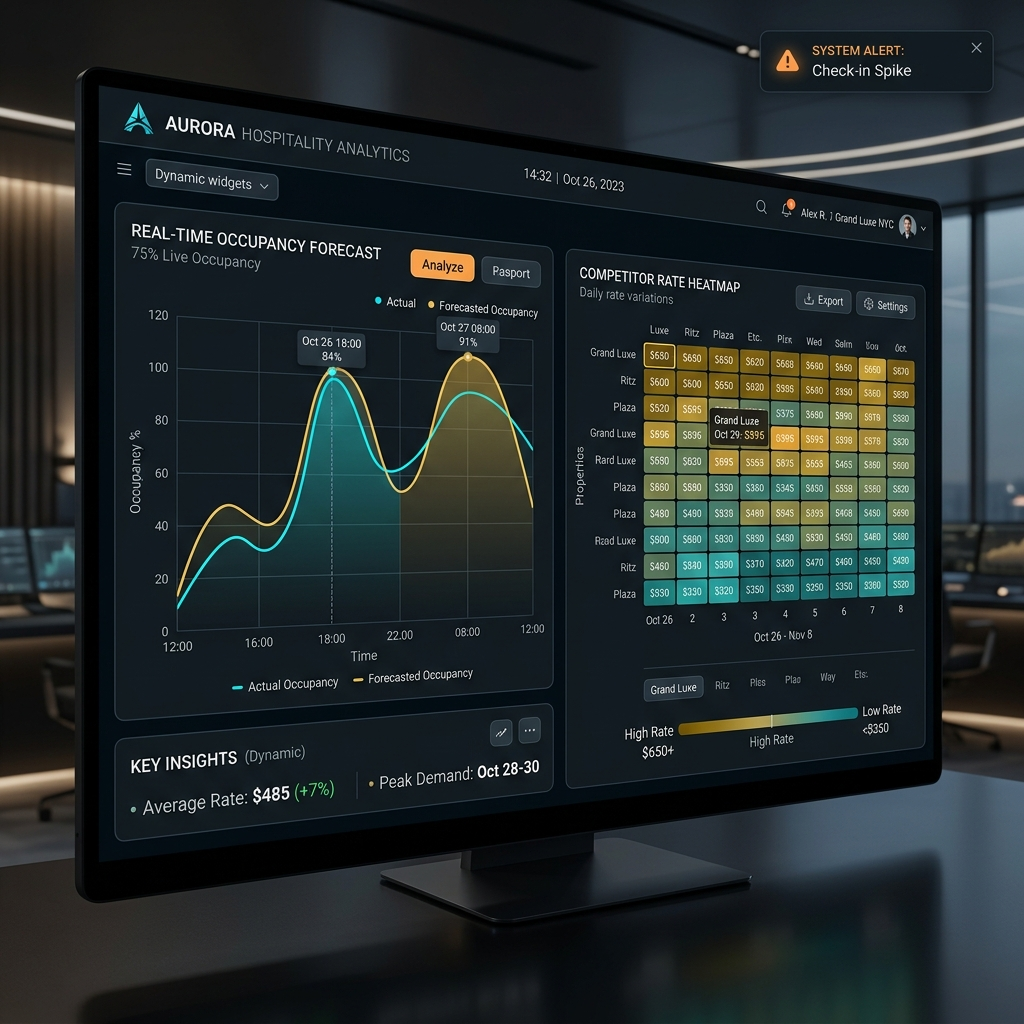
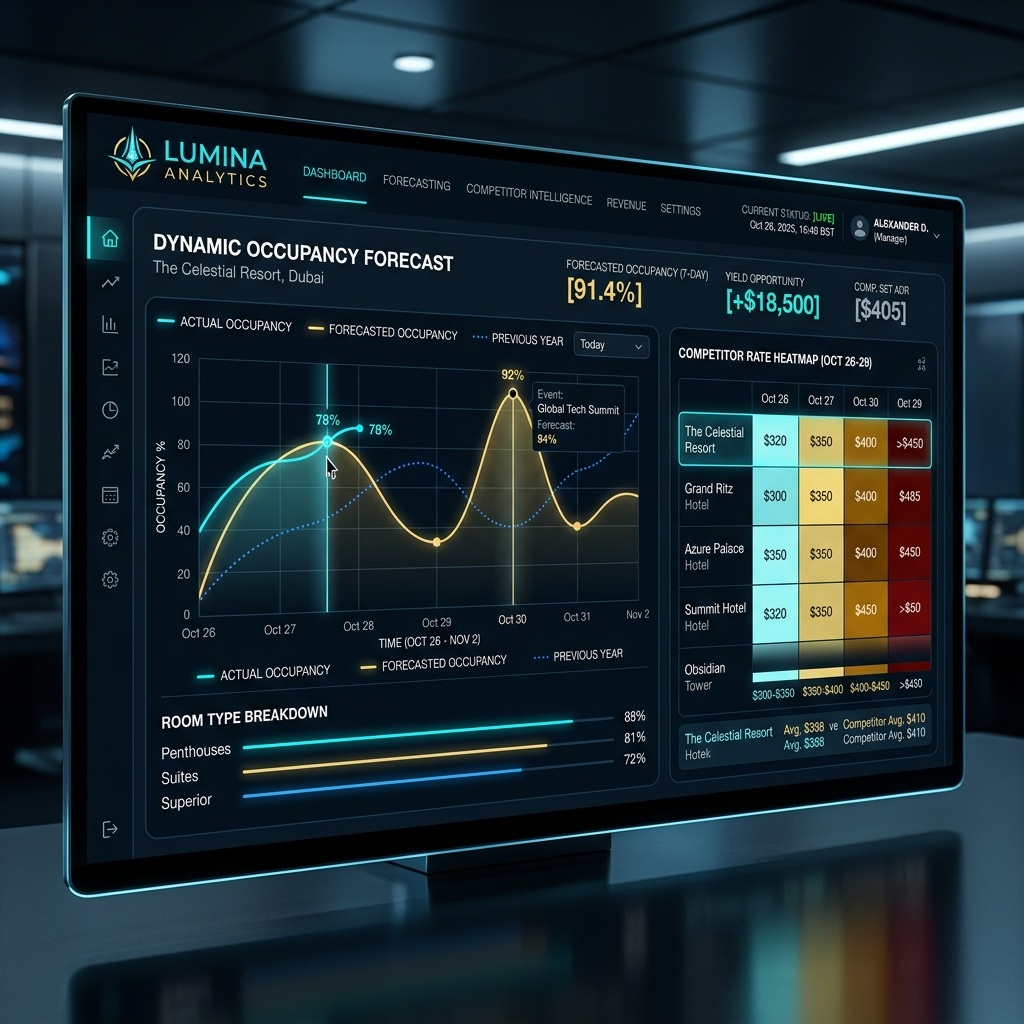
feat: add 3 new project cards to carousel in index.html matching original codebase structure

diff --git a/app/templates/index.html b/app/templates/index.html
@@ -904,6 +904,54 @@
                             </div>
                         </div>
                     </div>
+                        
+                        <!-- Project 4 -->
+                        <div class="project-card glass-panel">
+                            <div class="project-image" style="background-image: url('/static/img/case_supply.png'); background-size: cover; background-position: top center;">
+                            </div>
+                            <div class="project-content">
+                                <h3>IoT Fleet & Logistics AI</h3>
+                                <p class="project-overview"><strong>The Challenge:</strong> A regional fleet operator with 200+ trucks lost $45,000 monthly due to fuel waste, unpredictable traffic jams, and manual dispatch delays.<br><br><strong>The Solution:</strong> Engineered a real-time IoT Telemetry Pipeline and Dynamic AI Route Optimization Engine that recalculates optimal transit paths dynamically based on live traffic data.</p>
+                                <div class="project-tags">
+                                    <span class="tag">IoT Telemetry</span>
+                                    <span class="tag">Python</span>
+                                    <span class="tag">Kafka</span>
+                                    <span class="tag">TensorFlow</span>
+                                </div>
+                            </div>
+                        </div>
+
+                        <!-- Project 5 -->
+                        <div class="project-card glass-panel">
+                            <div class="project-image" style="background-image: url('/static/img/case_hotel.png'); background-size: cover; background-position: top center;">
+                            </div>
+                            <div class="project-content">
+                                <h3>Dynamic Pricing ML Engine</h3>
+                                <p class="project-overview"><strong>The Challenge:</strong> A premium resort group was leaving revenue on the table due to static seasonal pricing that failed to adjust to sudden local event surges and market demand.<br><br><strong>The Solution:</strong> Built a Real-Time Dynamic ML Pricing Engine that monitors competitor rates, flight bookings, and local demand to auto-adjust room rates, boosting RevPAR by +28%.</p>
+                                <div class="project-tags">
+                                    <span class="tag">Scikit-Learn</span>
+                                    <span class="tag">FastAPI</span>
+                                    <span class="tag">PostgreSQL</span>
+                                    <span class="tag">Docker</span>
+                                </div>
+                            </div>
+                        </div>
+
+                        <!-- Project 6 -->
+                        <div class="project-card glass-panel">
+                            <div class="project-image" style="background-image: url('/static/img/case_legal.png'); background-size: cover; background-position: top center;">
+                            </div>
+                            <div class="project-content">
+                                <h3>Enterprise RAG Contract Audit</h3>
+                                <p class="project-overview"><strong>The Challenge:</strong> Senior attorneys at a commercial practice spent 20+ hours weekly manually auditing 100-page contracts for compliance risks and hidden liability clauses.<br><br><strong>The Solution:</strong> Engineered a secure Enterprise RAG Document Audit System that analyzes contract files against legal compliance standards in under 10 seconds with 10x audit speed.</p>
+                                <div class="project-tags">
+                                    <span class="tag">LlamaIndex</span>
+                                    <span class="tag">VectorDB</span>
+                                    <span class="tag">FastAPI</span>
+                                    <span class="tag">React</span>
+                                </div>
+                            </div>
+                        </div>
                     
                     <div class="carousel-controls">
                         <button class="carousel-btn glass-btn" id="prev-project">❮</button>
